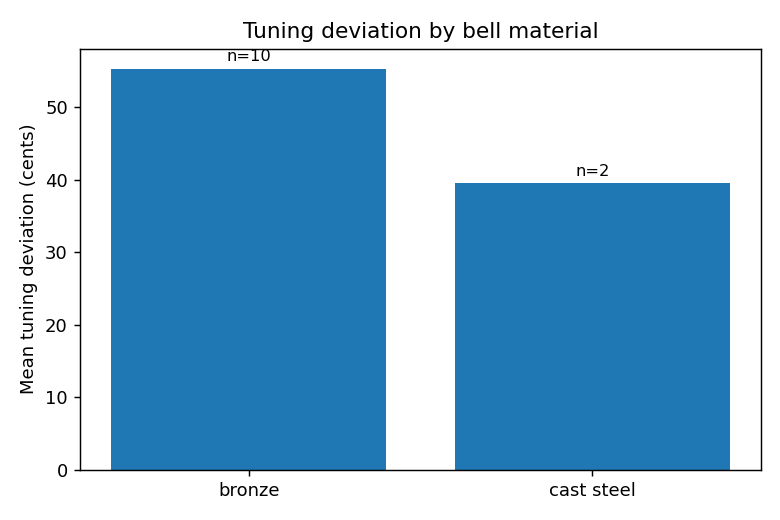
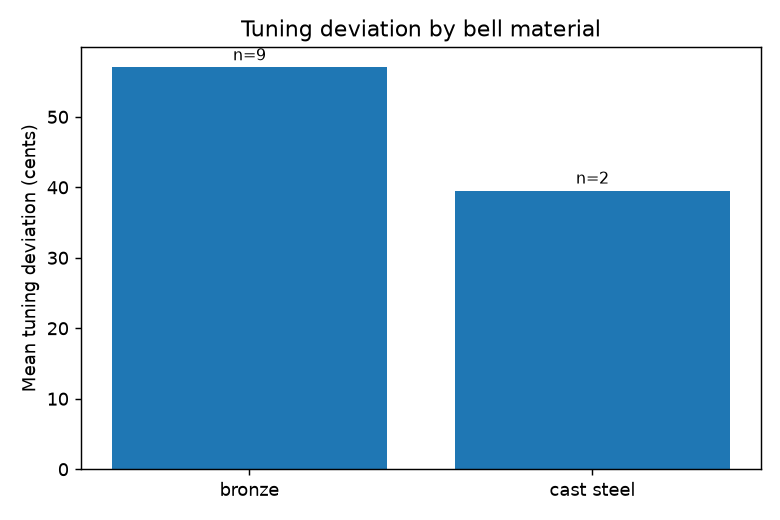
Remove unverified St Nikolaus and update results map and README

Changed region(s): [[0.0308, 0.0308, 0.9846, 0.9538], [0.5846, 0.3077, 0.9538, 0.3692]]

diff --git a/02_code/run_analysis.py b/02_code/run_analysis.py
@@ -129,16 +129,6 @@ METADATA = {
         lon=10.909031,
         certainty="documented independent parish church at Eugen-Pacelli-Platz 1; corrected from St. Michael attribution"
     ),
-    "st_nicholas_church": dict(
-        church="St. Nikolaus (exact building unverified)",
-        bell_name="unnamed",
-        casting_year=None,
-        material="bronze",
-        founder="unknown",
-        lat=49.8870,
-        lon=10.8780,
-        certainty="provisional: exact church and location unverified"
-    ),
     "st_stephan": dict(
         church="St. Stephan",
         bell_name="recorded bell/peal (session 1)",
@@ -313,12 +303,22 @@ def run_classification(merged):
 
 def main():
     df = pd.read_csv(os.path.join(RESULTS_DIR, "all_strikes_features.csv"))
+
+    # Remove the unverified St. Nikolaus recording completely.
+    df = df[df["bell_id"] != "st_nicholas_church"].copy()
+
     df = add_per_strike_tuning_deviation(df)
     agg, capped = cap_and_aggregate(df)
-    capped.to_csv(os.path.join(RESULTS_DIR, "capped_strikes_features.csv"), index=False)
+    capped.to_csv(
+        os.path.join(RESULTS_DIR, "capped_strikes_features.csv"),
+        index=False
+    )
 
     merged = attach_metadata(agg)
-    merged.to_csv(os.path.join(RESULTS_DIR, "bells_aggregated_with_material.csv"), index=False)
+    merged.to_csv(
+        os.path.join(RESULTS_DIR, "bells_aggregated_with_material.csv"),
+        index=False
+    )
 
     correlations = run_correlations(merged)
     classification = run_classification(merged)
@@ -329,7 +329,11 @@ def main():
         "n_churches": int(len(merged)),
         "max_strikes_per_church_used": MAX_STRIKES_PER_CHURCH,
     }
-    with open(os.path.join(RESULTS_DIR, "model_results.json"), "w") as f:
+
+    with open(
+        os.path.join(RESULTS_DIR, "model_results.json"),
+        "w"
+    ) as f:
         json.dump(model_results, f, indent=2)
 
     print(json.dumps(model_results, indent=2))
@@ -337,3 +341,4 @@ def main():
 
 if __name__ == "__main__":
     main()
+

diff --git a/02_code/build_map.py b/02_code/build_map.py
@@ -171,7 +171,7 @@ def main():
 <div id="map"></div>
 <div class="legend">
   <b>Bamberg Church Bells</b><br>
-  {marker_count} bell-level markers derived from 13 recording entries.<br>
+  {marker_count} bell-level markers derived from 12 retained recording entries.<br>
   Hover for the church name; click for metadata and audio.<br>
   <span class="dot" style="background:#2b7bba"></span>Bronze&nbsp;&nbsp;
   <span class="dot" style="background:#d4a017"></span>Cast steel<br>

diff --git a/README.md b/README.md
@@ -1,74 +1,47 @@
 # Bamberg Church Bells
 
-Machine Listening project (CH-Proj-M), SS 2026, Uni Bamberg.
-Kumaran Vasu, Srujan Mahajan. Supervisor: Prof. Abesser.
+Machine Listening project (CH-Proj-M), SS 2026, University of
+Bamberg.
 
-Field recordings of 13 church bells in Bamberg, feature extraction
-(FFT partials, T60, spectral stuff), KNN vs small MLP for pre/post
-1900 classification, and an interactive map. Paper has the actual
-writeup and results, this is just the code.
+**Authors:** Kumaran Vasu and Srujan Mahajan  
+**Supervisor:** Prof. Abesser
 
-## folders
+This project contains field recordings and acoustic analysis of church
+bells in Bamberg. It includes FFT-based bell-partial extraction,
+estimated decay time, spectral descriptors, KNN and MLP classification,
+figures, and an interactive audio-linked map.
 
-- `02_code/` - the scripts, in order: segment_strikes -> extract_features
-  -> run_analysis -> make_figures / build_map
-- `03_spectrograms/` - spectrogram pngs, plus `demo_peaks/` (labeled
-  peaks + short audio clips per church for presenting)
-- `04_results/` - csvs and model_results.json
-- `05_map/` - the leaflet map html, 12 bell-level markers (the two
-  St. Stephan recording sessions are merged into one marker, so 13
-  recording entries become 12 markers)
+After removing one unverified recording, the final dataset contains:
 
-raw and segmented audio are not in this repo (too big, see
-.gitignore). `04_results/all_strikes_features.csv` already has the
-extracted per-strike features computed from that audio, so the
-statistics and figures can be reproduced without the audio itself.
+- 12 retained recording entries
+- 11 bell-level observations
+- 11 known-year observations used for correlation and classification
+- 11 markers on the interactive map
 
-## running it
+The two St. Stephan recording sessions are merged into one bell-level
+observation and one map marker.
 
-Install dependencies first:
-```
-pip install -r requirements.txt --break-system-packages
-```
+## Folders
 
-**To reproduce the statistics, dashboard, and material figure, and the
-map** (this works with just what's in this repo, no audio needed):
-```
-python3 02_code/run_analysis.py
-python3 02_code/make_figures.py
-python3 02_code/build_map.py
-```
-`make_figures.py` will also try to regenerate the per-church
-spectrograms, which need the segmented audio. If that audio isn't
-present (it isn't, in this repo), it prints a message and skips just
-that part, the dashboard and material figure still get made.
+- `02_code/` – analysis and map-generation scripts
+- `03_spectrograms/` – generated spectrogram images and demonstration
+  material
+- `04_results/` – aggregated CSV files, figures, and
+  `model_results.json`
+- `05_map/` – generated Leaflet map
+- `docs/` – public GitHub Pages version of the interactive map
+- `06_term_paper/` – term-paper source files, when included
 
-**To reproduce the spectrograms and the full audio pipeline from
-scratch** (segmentation and feature extraction), you need the
-original and segmented audio files, which are not included here:
-```
-python3 02_code/segment_strikes.py
-python3 02_code/extract_features.py
-```
+Raw and segmented audio files are not included because of their size.
+The file `04_results/all_strikes_features.csv` contains the extracted
+per-strike features, so the statistical analysis, figures, and map can
+be reproduced without the original audio.
 
-## known issues
+## Installation
 
-- St. Martin recording was originally a duplicate of the cathedral one
-  (same file basically), had to re-record it
-- St. Nikolaus has no confirmed casting year
-- St. Stephan's two recording sessions are the same bell, merged
-  before doing any stats on them
-- there was also a mixup where st_heinrich got filed under St. Michael
-  in the metadata, it's actually its own church, fixed now
-- found a real bug in the strength-based strike capping: the manifest
-  matching code was stripping ".wav" but the manifest files are
-  ".flac", so it silently never matched and fell back to picking the
-  first 15 strikes instead of the 15 strongest for St. Martin and
-  St. Nikolaus. Fixed by matching on the filename stem regardless of
-  extension. This changed the aggregated features for both churches
-  and, through them, the classification and correlation numbers, see
-  the paper's Critical Discussion for the actual before/after
-- 11 known-year observations is still a small sample so don't read
-  too much into the classification numbers, they moved twice already
-  from fixing real bugs
+Create and activate a Python virtual environment, then install the
+dependencies:
 
+```bash
+python -m venv .venv
+python -m pip install -r requirements.txt